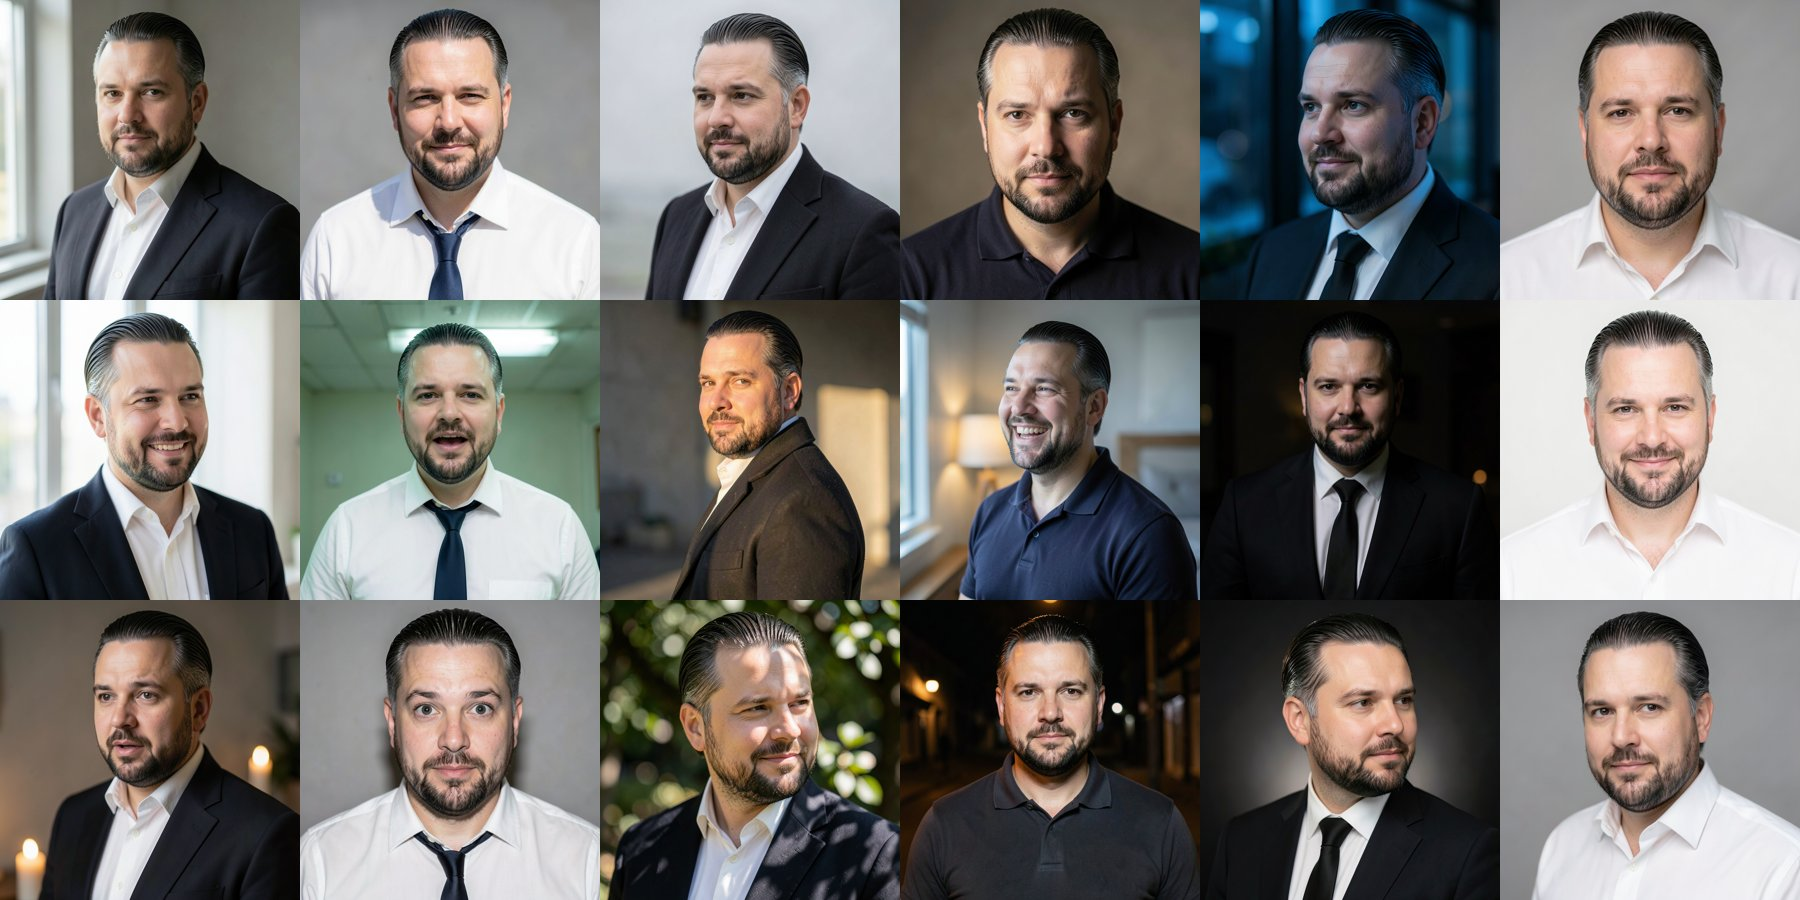
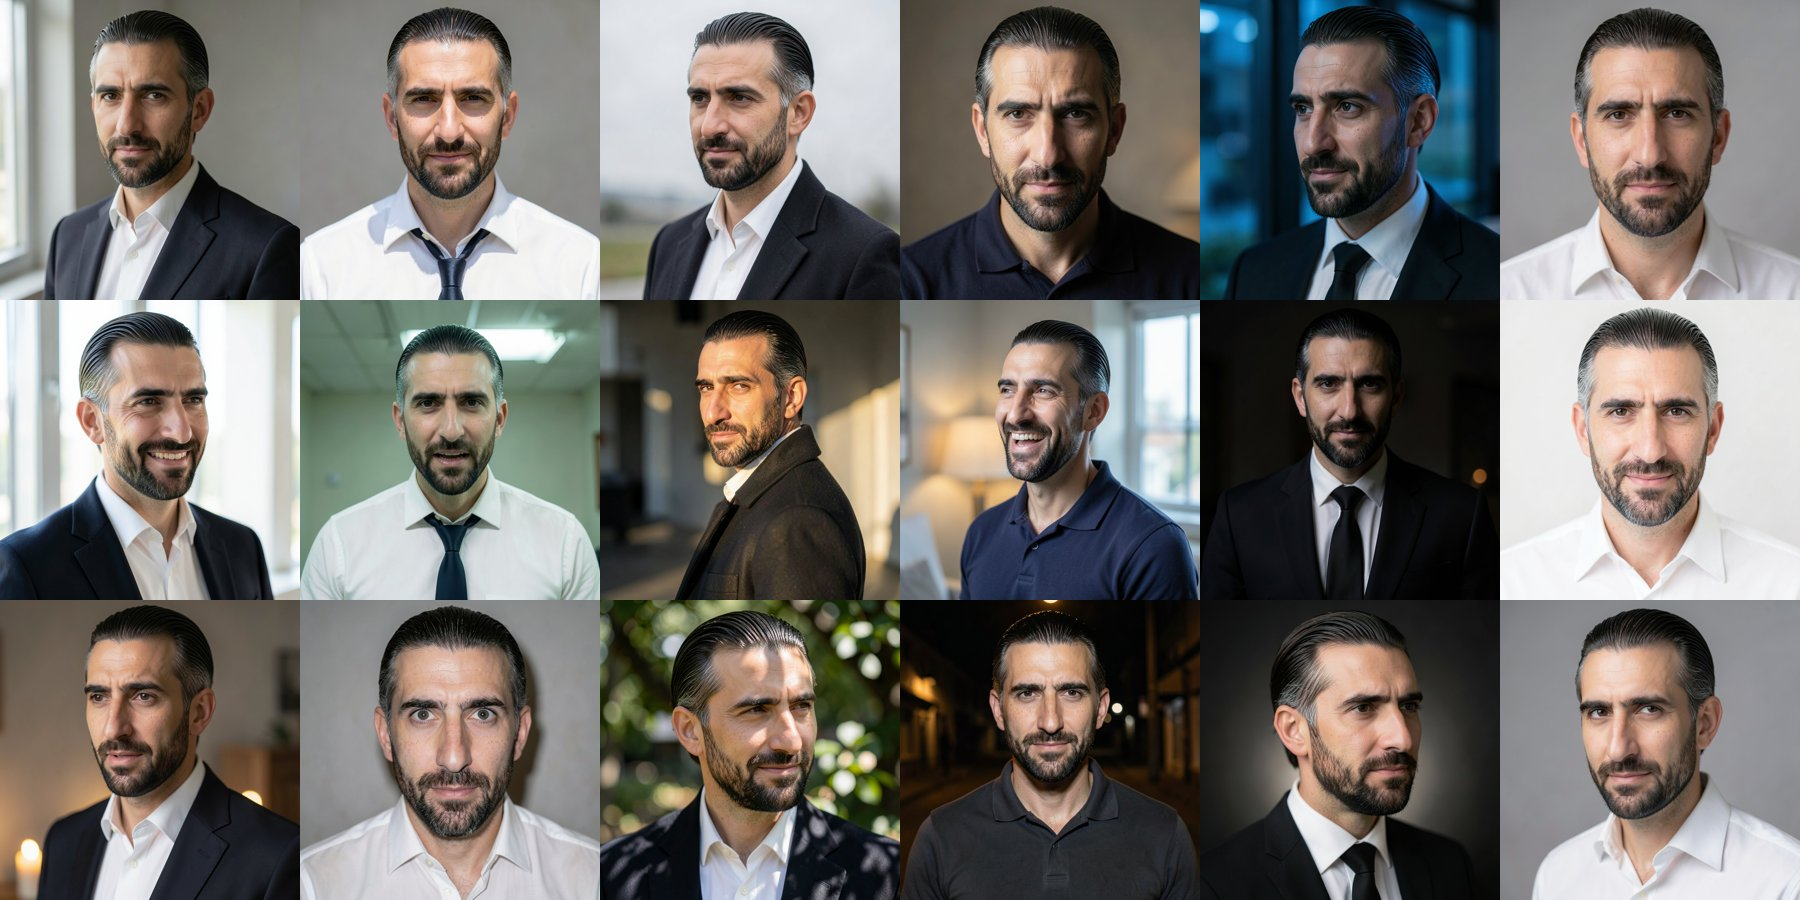
casting: correct Pengold's pick to T01, re-anchor and regenerate his set
Brad corrected the pick from T02 to T01, the LEANEST of the four text
candidates. Same hair treatment applied (slicked back, hint of grey at
the temples); the face held.

Consequence recorded rather than glossed: the well-fed softness that
prompted the whole re-cast is NOT in the chosen anchor. T01 is lean and
saturnine. His bible now describes the face that exists instead of the
one the direction asked for - a quiet disagreement between canon and
anchor is exactly the failure mode of NH-USA-001 and NH-USA-004.

The tell moved from soft to smooth: no weathering, no hard-won lines,
an indoor animal with an expensive barber. The two limits that survive
are 'never rough' and 'bearded, not clean-shaven'.

18 frames regenerated. Box stopped.

Claude-Session: https://claude.ai/code/session_0119jELvJaasFuGQ8S9TGFfk

diff --git a/projects/new_harnomy_usa/03_design/characters/casting/fal_pengold_final.py b/projects/new_harnomy_usa/03_design/characters/casting/fal_pengold_final.py
@@ -1,5 +1,10 @@
 #!/usr/bin/env python3
-r"""Stage 3.5 - PENGOLD final anchor. Brad picked PEN-T02, 2026-09-03.
+r"""Stage 3.5 - PENGOLD final anchor. Brad picked PEN-T01, 2026-09-03.
+
+CORRECTION: an earlier run of this script targeted T02. Brad corrected the pick to
+T01, the leanest of the four text candidates. T01 carries less of the well-fed
+softness than T02 or T03, but it is also the coldest, which is consistent with him
+rejecting T03 as "too likeable".
 
 Two changes, both to the hair:
   - slicked back, wet-combed and held rather than dry and softly combed
@@ -13,8 +18,8 @@ The grey goes in the HAIR ONLY, at the temples. PEN-R02 put grey in the beard
 and it read as an older, harder man - the wrong direction entirely. The beard
 stays dark.
 
-T03 was rejected as "too likeable", so T02's warmth is the ceiling: hold the
-faint amusement exactly where it is and do not warm him further.
+T03 was rejected as "too likeable", so T01's coolness is the target: hold the
+expression exactly where it is and do not warm him.
 
 Two variants on how much grey. Cost: two images, ~$0.30.
 """
@@ -26,7 +31,7 @@ import httpx
 from dotenv import load_dotenv
 
 HERE = os.path.dirname(os.path.abspath(__file__))
-SRC = os.path.join(HERE, "pengold_text", "PEN-T02.png")
+SRC = os.path.join(HERE, "pengold_text", "PEN-T01.png")
 OUT = os.path.join(HERE, "pengold_text")
 
 for env in (r"C:/Users/bradu/Documents/ilyrium-autostudio/.env",
@@ -44,17 +49,11 @@ FRAME = ("Head-and-shoulders portrait, plain grey backdrop, even neutral dayligh
          "natural skin tones, photographic realism, 85mm.")
 
 JOBS = [
- ("PEN-F01", HOLD +
+ ("PEN-F03", HOLD +
   "Slick his hair back tight to the skull, wet-combed and held in place with product, "
   "the comb lines visible, a clean high forehead and nothing falling loose. Put a hint "
   "of grey in it: a light silvering at the temples and just above the ears, the rest "
   "still dark. " + FRAME),
-
- ("PEN-F02", HOLD +
-  "Slick his hair back tight to the skull, wet-combed and held with product, glossy "
-  "and controlled, a clean high forehead. Put a clear streak of grey at the temples "
-  "running back above the ears and a light scatter of grey through the dark on top - "
-  "distinguished and deliberate, still mostly dark. " + FRAME),
 ]
 
 

diff --git a/projects/new_harnomy_usa/03_design/characters/training/gen_trainset.py b/projects/new_harnomy_usa/03_design/characters/training/gen_trainset.py
@@ -40,11 +40,11 @@ CANON = {
               "well-rested, slim and strong, the brow entirely smooth and unfurrowed, the lips softly closed "
               "and resting rather than pressed, a serene inward calm with light in it, the neck long and the "
               "chin carried level, grace rather than satisfaction"),
- "pengold":  ("a man of forty-one, youthful and pampered, dark hair slicked back tight to the skull over a "
-              "clean high forehead with a light silvering of grey at the temples, a short well-manicured dark "
-              "hipster beard tidy at the cheek line, smooth clear unweathered skin, full rounded lower cheeks "
-              "with the jaw angle softened into a gentle curve, a small soft fullness under the chin, a fuller "
-              "neck at the collar, the frame trim and upright, faintly amused and completely unbothered"),
+ "pengold":  ("a man of forty-one, dark hair slicked back tight to the skull over a clean high forehead with "
+              "the comb lines visible and a light silvering of grey at the temples, a short well-manicured "
+              "dark hipster beard tidy at the cheek line, smooth clear unweathered indoor skin, a lean "
+              "saturnine face with a defined jaw and a heavy dark brow over deep-set eyes, the frame trim and "
+              "upright, faintly amused and completely unbothered"),
  "dick":     ("a man of thirty-one, soft and delicately beautiful, fine-boned and almost feminine, a smooth "
               "unlined jaw, full soft lips, long lashes and gentle brows, tanned and clear-skinned, the slim "
               "light athletic build of a professional tennis player with no bulk and no hollowing at the "

diff --git a/projects/new_harnomy_usa/01_development/bible/characters/pengold/bible.md b/projects/new_harnomy_usa/01_development/bible/characters/pengold/bible.md
@@ -45,28 +45,38 @@ handle badly. Restated as "plain, correct, unshowy."
 
 ## 🔒 LOCKED VISUAL DESCRIPTOR — CAST 2026-09-02 (PEN-K03)
 
-Anchor: `03_design/characters/casting/finals/PEN-FINAL.png` (PEN-T02 + slicked hair and a hint of grey, 2026-09-03).
+Anchor: `03_design/characters/casting/finals/PEN-FINAL.png` (PEN-T01 + slicked hair and a hint of grey at the temples, 2026-09-03).
 Superseded: `finals/PEN-K03-rest.png`, `caste/PEN-K03.png`.
 
-**He was RE-CAST, not edited.** Two edit passes could not add softness to K03's face - a reference latent pins facial geometry and body fat is geometry (NH-USA-021). He was regenerated from text with the soft body built in from the start, guided by a detailed description of K03's features, so this is a cousin of the approved face rather than the same man. Brad re-approved him 2026-09-03, choosing T02 over the plusher T03, which read **too likeable**. T02's warmth is therefore the ceiling: he may be this friendly and no friendlier. Brad: *"perfect. Looks like a political
+**He was RE-CAST, not edited.** Two edit passes could not add softness to K03's face - a reference latent pins facial geometry and body fat is geometry (NH-USA-021). He was regenerated from text with the soft body built in from the start, guided by a detailed description of K03's features, so this is a cousin of the approved face rather than the same man. Brad re-approved him 2026-09-03, choosing **T01**, the leanest of the four candidates, having rejected the plushest (T03) as **too likeable**. T01's coolness is the target: he may be this friendly and no friendlier. Brad: *"perfect. Looks like a political
 consultant through and through."*
 
-`a man of forty-one, youthful and pampered, dark hair slicked back tight to the skull, wet-combed and held with product over a clean high forehead, a light silvering of grey at the temples and just above the ears with the rest still dark, a short well-manicured hipster beard sculpted by an expensive barber and tidy at the cheek line, dark with no grey in it, skin smooth and clear and unweathered, full rounded lower cheeks with the jaw angle softened and partly hidden beneath that fullness so the jawline reads as a gentle curve rather than an edge, a small soft fullness under the chin with the head level, a fuller neck resting against the collar, the frame trim and upright with the suit fitting cleanly, immaculate dark navy suiting in fine wool over a crisp white shirt, faintly amused and completely unbothered, the face of a man who has never been seriously contradicted`
+`a man of forty-one, dark hair slicked back tight to the skull, wet-combed and held with product over a clean high forehead, the comb lines visible, a light silvering of grey at the temples and just above the ears with the rest still dark, a short well-manicured dark hipster beard sculpted by an expensive barber and tidy at the cheek line, smooth clear unweathered indoor skin, a lean saturnine face with a defined jaw and a heavy dark brow over deep-set eyes, the frame trim and upright, immaculate dark navy suiting in fine wool over a crisp white shirt open at the collar, faintly amused and completely unbothered, the face of a man who has never been seriously contradicted`
 
-### Soft, not rough, and not fat — direction from Brad, 2026-09-03
+### What he became, and the note that did not survive casting
 
-The target is narrow and all three limits matter:
+The direction on 2026-09-03 asked for a soft, slightly squishy man — a political
+consultant who eats out at too many high-end restaurants — and explicitly not fat and
+not rough. Four text candidates were generated across that range. **Brad chose the
+leanest of them (PEN-T01).**
 
-- **Soft and slightly squishy**, in the cheek and just under the jaw. A political consultant who eats out
-  at too many high-end restaurants. The softness is evidence of the life, and it is the tell.
-- **Not fat.** The frame stays trim and the suit fits cleanly. This is plushness, not weight.
-- **Never rough or coarse.** No weathering, no hard lines, nothing that suggests he has ever worked
-  outdoors or been hit. He is an indoor animal.
-- **Bearded, not clean-shaven.** The hipster beard is precisely barbered and expensively maintained — it
-  is a costume of authenticity worn by a man with none, which is `THE_CASTE.md` in a single detail.
+So the well-fed plushness is *not* in the anchor, and this bible describes the face
+that exists rather than the one that was asked for. The tell moved: he is not soft, he
+is **smooth**. No weathering, no hard-won lines, nothing that suggests he has ever
+worked outdoors or been hit — an indoor animal with an expensive barber. The lean
+saturnine face reads colder than the plusher candidates did, and that is consistent
+with Brad rejecting the softest one (T03) as **too likeable**.
 
-This supersedes the earlier note to make him heavier and broader through the shoulders. He is not the big
-one; he is the *comfortable* one.
+Two limits from the original note DO still hold and must not drift:
+
+- **Never rough or coarse.** He is groomed, not weathered.
+- **Bearded, not clean-shaven.** The hipster beard is precisely barbered and
+  expensively maintained — a costume of authenticity worn by a man with none, which is
+  `THE_CASTE.md` in a single detail.
+
+This supersedes both the earlier direction to make him heavier and broader through the
+shoulders, and the softness note above it.
+
 
 Carries the caste block — see `../THE_CASTE.md`.
 

diff --git a/projects/new_harnomy_usa/03_design/characters/casting/SELECTIONS.md b/projects/new_harnomy_usa/03_design/characters/casting/SELECTIONS.md
@@ -10,7 +10,7 @@ anchors rendered and silhouette-tested 2026-09-03.*
 | Valencia Strong | `finals/VAL-FINAL.png` | **Held, untouched.** Blend of C05 gravity + C06 ache, deliberately ethnically ambiguous (NH-USA-008), screen-tested at finale Beat 5. |
 | Summer Winters | `finals/SUM-FINAL.png` | SUM-K02 → younger (thirty-eight) → beatific light. The radiance is a lighting fact, not an expression (NH-USA-020). |
 | Dick Suede | `finals/DIC-FINAL.png` | DIC-K02 → soft and delicately beautiful, pro-tennis build, hair long past the jaw and bun-capable. |
-| Pengold Heavens | `finals/PEN-FINAL.png` | **Re-cast from text**, then slicked hair + a hint of grey at the temples. Not an edit of K03 — see below. |
+| Pengold Heavens | `finals/PEN-FINAL.png` | **Re-cast from text** (PEN-T01), then slicked hair + a hint of grey at the temples. Not an edit of K03 — see below. |
 
 ### Pengold was re-cast, and that is a real change
 
@@ -19,8 +19,14 @@ geometry, and body fat *is* geometry, so "keep this exact man" and "make his fac
 are contradictory instructions and the reference wins (NH-USA-021). He was regenerated from
 text with the soft body built in from the start, guided by a detailed description of K03's
 features. **The result is a cousin of the approved face, not the same man.** Brad re-approved
-2026-09-03, choosing T02 over the plusher T03 because T03 read *too likeable* — so T02's
-warmth is the ceiling for this character.
+2026-09-03, choosing **T01** — the leanest of the four — having rejected the plushest (T03) as
+*too likeable*.
+
+The consequence worth stating plainly: **the well-fed softness that prompted the re-cast is not
+in the chosen anchor.** T01 is lean and saturnine. His bible now describes that face rather than
+the one the direction asked for, so canon and anchor agree — the failure mode of NH-USA-001 and
+NH-USA-004 was exactly this kind of quiet disagreement between two places. The tell moved from
+soft to *smooth*: no weathering, no hard-won lines, an indoor animal with an expensive barber.
 
 ### The rule that came out of this pass
 
